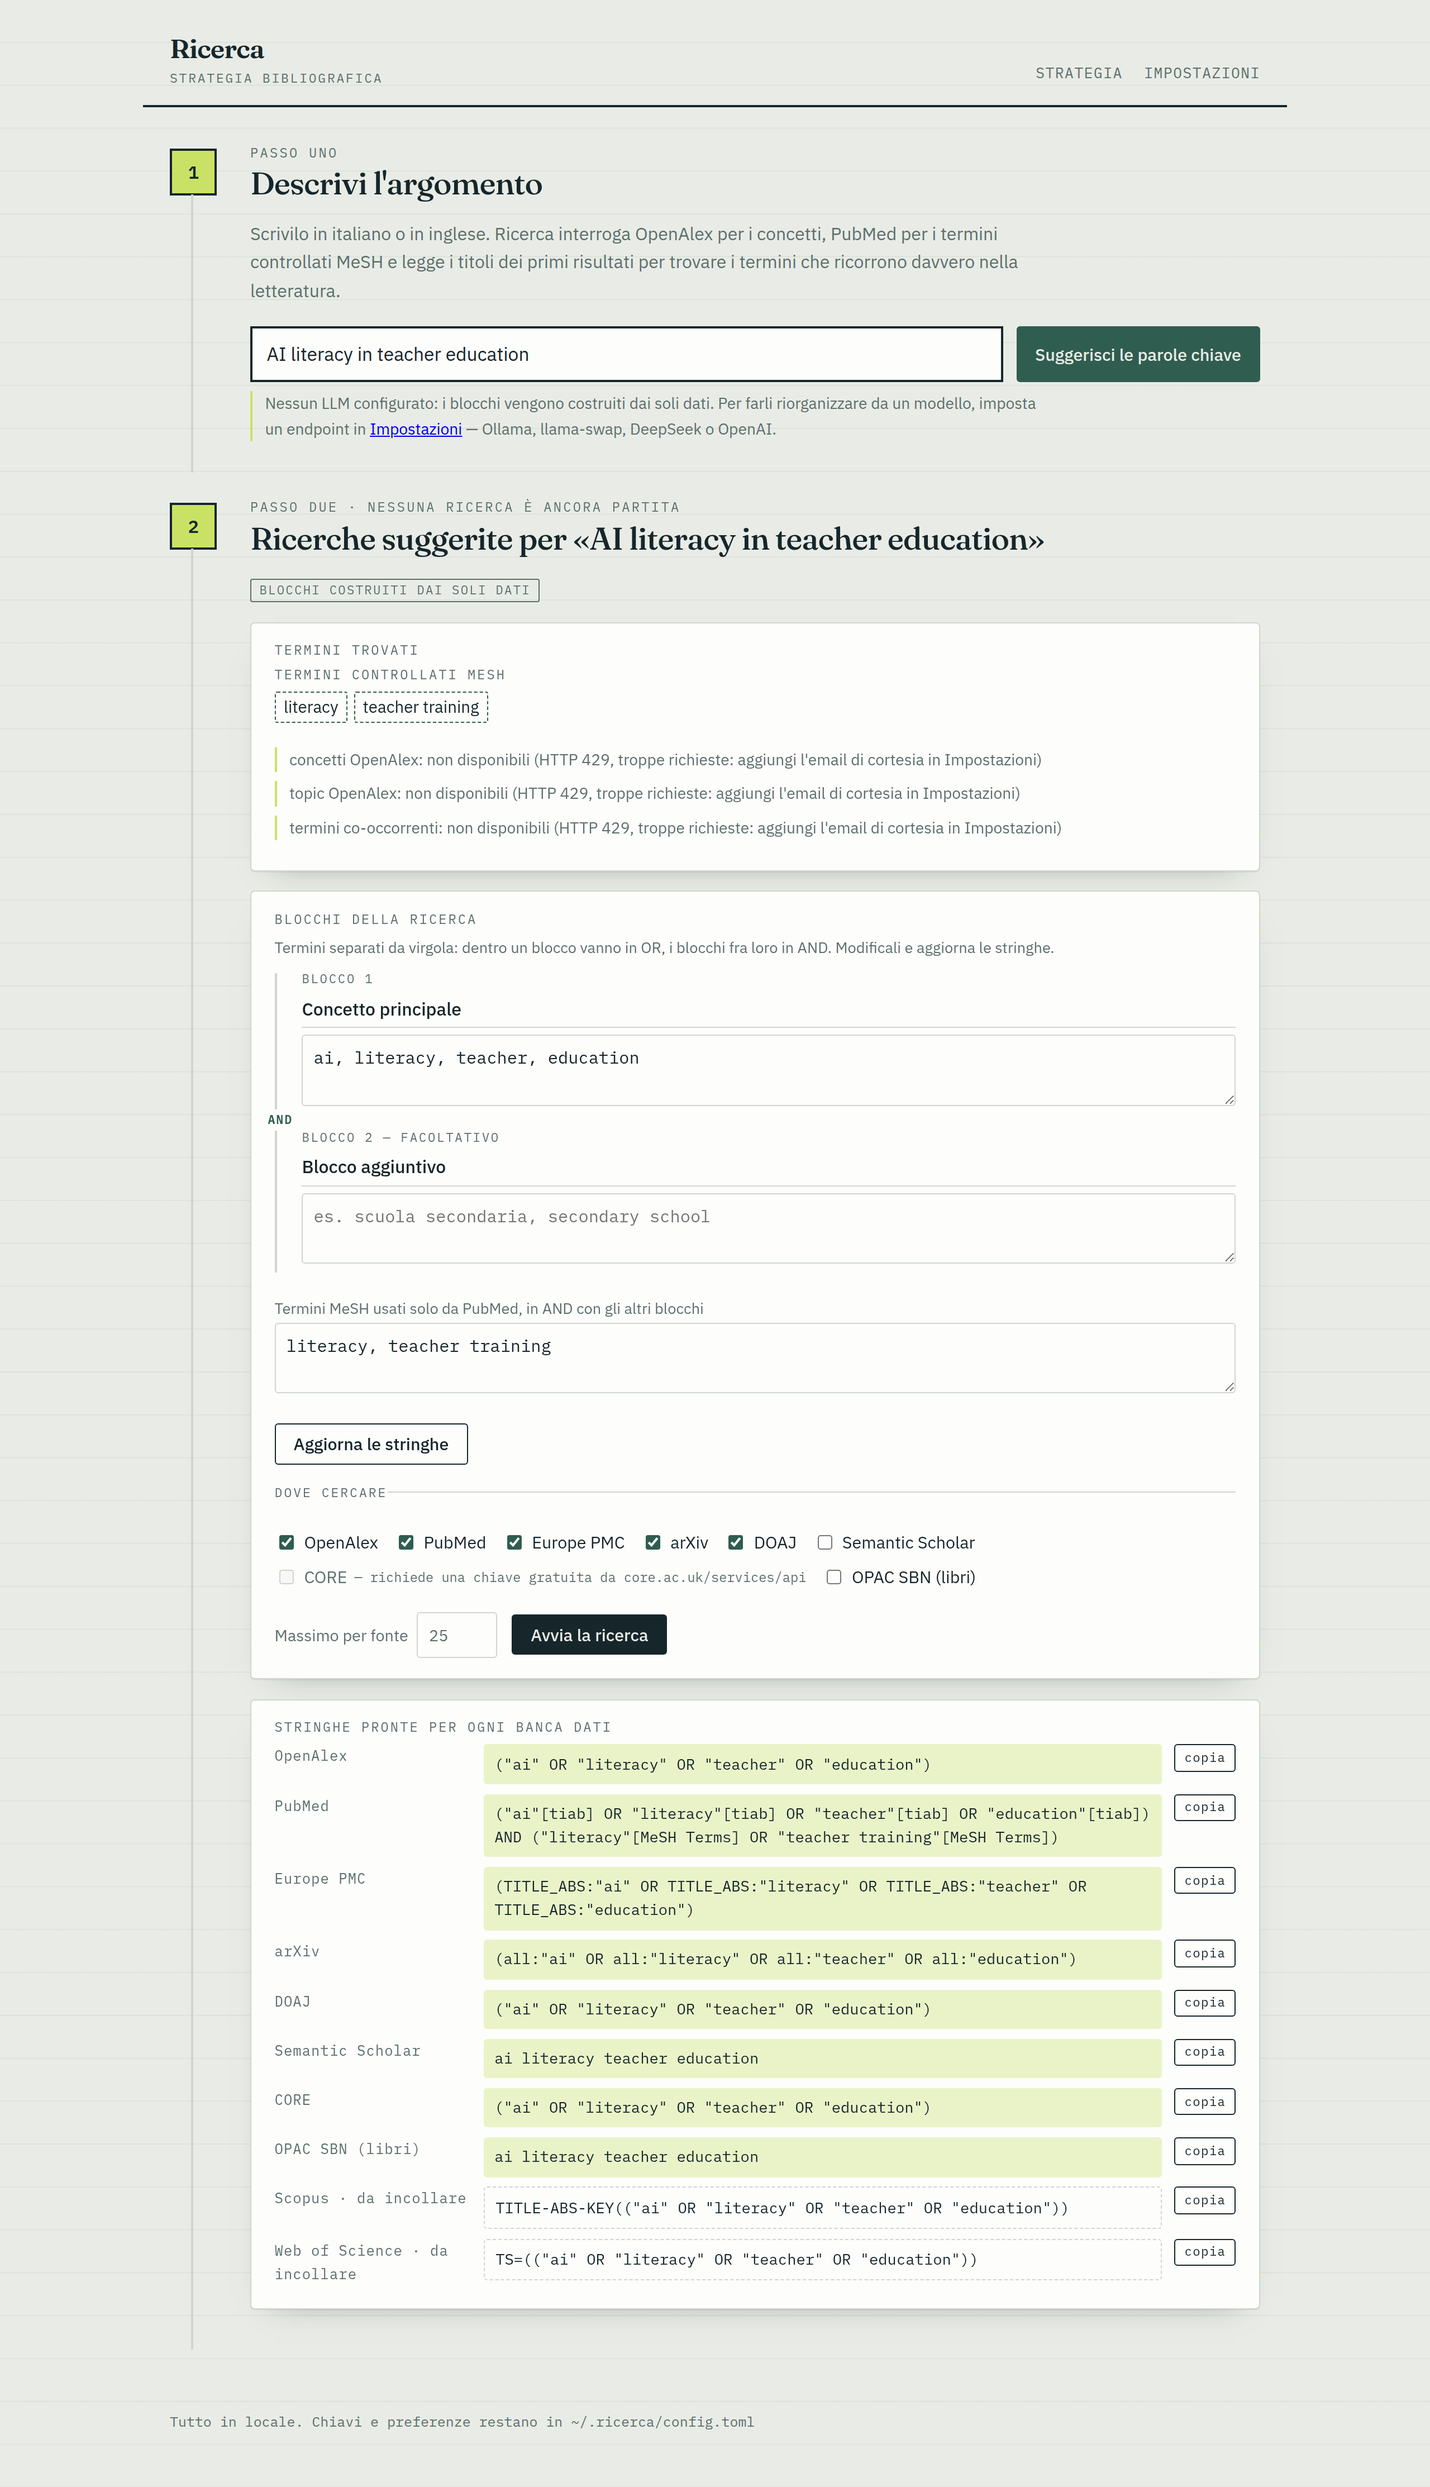
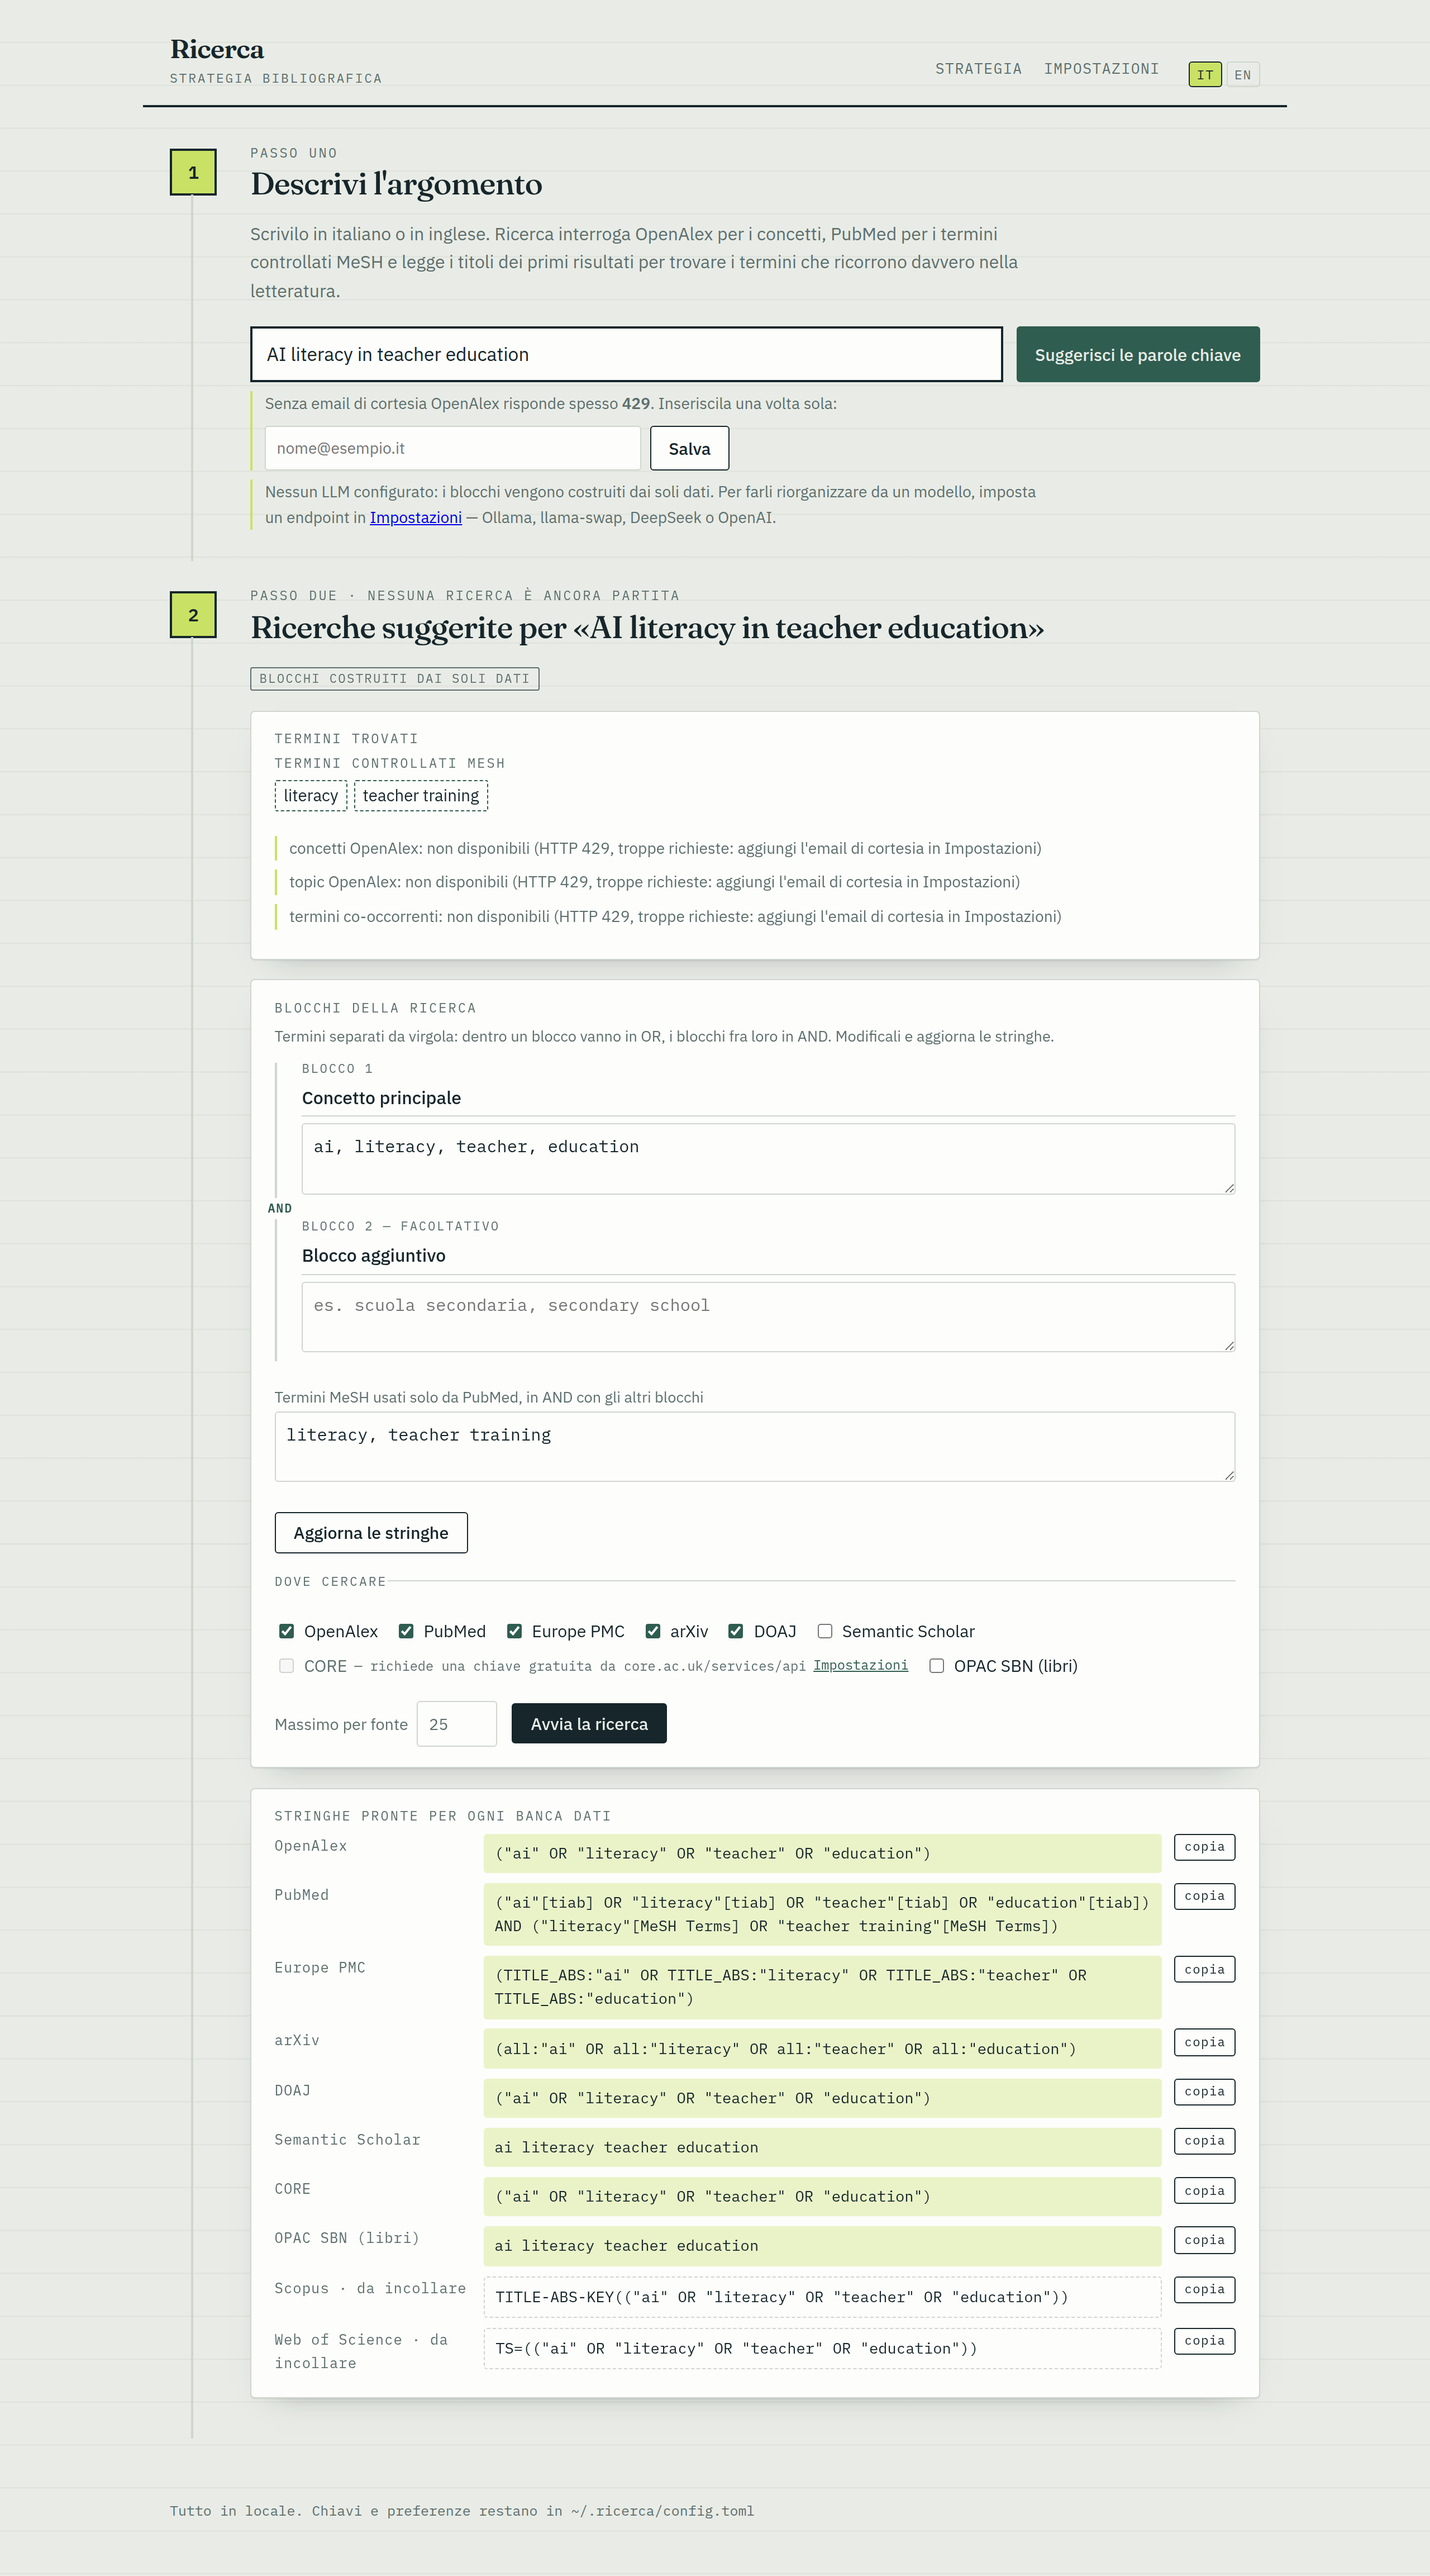
docs: screenshot dell'interfaccia e segnaposto email tradotto

diff --git a/ricerca/templates/impostazioni.html b/ricerca/templates/impostazioni.html
@@ -30,7 +30,7 @@
 
     <h3>{{ t.settings_sources }}</h3>
     <label for="mailto">{{ t.settings_mailto }}</label>
-    <input id="mailto" name="mailto" value="{{ config.mailto }}" placeholder="nome@esempio.it">
+    <input id="mailto" name="mailto" value="{{ config.mailto }}" placeholder="{{ t.mailto_placeholder }}">
     <label for="s2_api_key">{{ t.settings_s2 }}</label>
     <span class="chiave">
       <input id="s2_api_key" name="s2_api_key" type="password" autocomplete="off"

diff --git a/ricerca/templates/partials/mailto.html b/ricerca/templates/partials/mailto.html
@@ -4,7 +4,7 @@
 <form class="nota" hx-post="/mailto" hx-target="#cortesia">
   <label for="mailto-veloce">{{ t.mailto_prompt|safe }}</label>
   <span class="riga-mailto">
-    <input id="mailto-veloce" name="mailto" type="email" required placeholder="nome@esempio.it">
+    <input id="mailto-veloce" name="mailto" type="email" required placeholder="{{ t.mailto_placeholder }}">
     <button type="submit">{{ t.btn_save }}</button>
   </span>
 </form>

diff --git a/ricerca/i18n.py b/ricerca/i18n.py
@@ -34,6 +34,7 @@ STRINGS: dict[str, dict[str, str]] = {
         "llm_missing_tail": "— Ollama, llama-swap, DeepSeek o OpenAI.",
         "mailto_active": "Email di cortesia attiva:",
         "mailto_active_tail": "— OpenAlex applica i limiti più larghi.",
+        "mailto_placeholder": "nome@esempio.it",
         "mailto_prompt": "Senza email di cortesia OpenAlex risponde spesso <b>429</b>. Inseriscila una volta sola:",
         "btn_save": "Salva",
         "step2_eyebrow": "Passo due · nessuna ricerca è ancora partita",
@@ -149,6 +150,7 @@ STRINGS: dict[str, dict[str, str]] = {
         "llm_missing_tail": "— Ollama, llama-swap, DeepSeek or OpenAI.",
         "mailto_active": "Courtesy email set:",
         "mailto_active_tail": "— OpenAlex grants the higher rate limits.",
+        "mailto_placeholder": "name@example.org",
         "mailto_prompt": "Without a courtesy email OpenAlex often answers <b>429</b>. Enter it once:",
         "btn_save": "Save",
         "step2_eyebrow": "Step two · no search has run yet",

diff --git a/docs/screenshot/README.md b/docs/screenshot/README.md
@@ -1,10 +1,12 @@
 # Screenshot
 
 Generati con Playwright dalla app in esecuzione in locale.
+Generated with Playwright from the app running locally.
 
-| File | Schermata |
+| File | Schermata / Screen |
 |---|---|
-| `1-topic.png` | passo 1: scelta del topic |
+| `1-topic.png` | passo 1: argomento · step 1: topic |
 | `2-ricerche-suggerite.png` | passo 2: termini, blocchi booleani, stringhe per motore |
 | `3-risultati.png` | passo 3: risultati deduplicati ed export |
-| `4-impostazioni.png` | impostazioni: LLM e chiavi delle fonti |
+| `4-impostazioni.png` | impostazioni: LLM, email di cortesia, chiavi API |
+| `5-english.png` | interfaccia in inglese |
